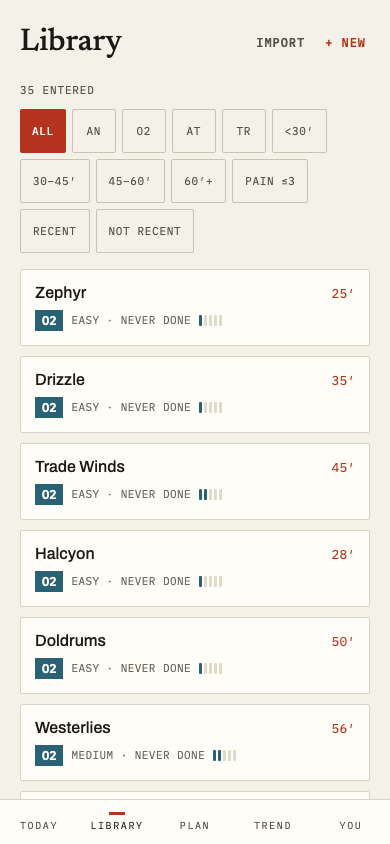
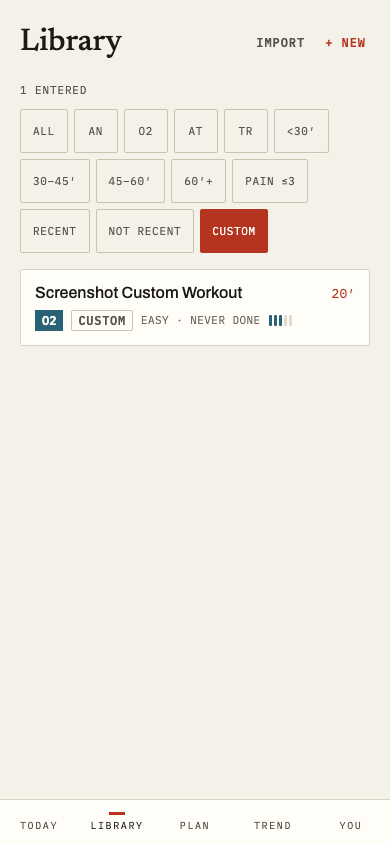
feat: silence the iOS selection callout on controls; record the phase
A device report found that long-pressing a button, chip, radio option,
workout row, or anchor-styled control on iOS popped the native
text-selection callout (Copy/Look Up/Translate) instead of activating it —
WKWebView treats rendered text as selectable unless told otherwise. One
grouped user-select/-webkit-touch-callout rule in index.css covers every
such control while leaving inputs, textareas, and plain inline hyperlinks
selectable; the stepper's typable value cell shares a class name with its
non-editable span sibling, so the selector is scoped to span.stepper-value
specifically to avoid catching the typed variant. Chromium can only assert
the computed style — the callout suppression itself is James's to verify
on-device, post-merge.

Also records Phase 5H (badge/filter + this fix) in ROADMAP.md and
DEVIATIONS.md, and updates the library screenshot to show a real custom
workout wearing the CUSTOM badge.

Claude-Session: https://claude.ai/code/session_01UEXqdgDid4Qjd8D5uoRZ3H

diff --git a/app/e2e/design.spec.ts b/app/e2e/design.spec.ts
@@ -166,6 +166,26 @@ test.describe("library screen", () => {
       .evaluate((el) => getComputedStyle(el).backgroundColor);
     expect(allChipBg).toBe("rgb(181, 52, 31)"); // --accent
   });
+
+  // iOS device report, 2026-08-01: long-pressing a filter chip or a
+  // workout row popped the text-selection callout (Copy/Look Up/
+  // Translate) — WKWebView treats button/link text as selectable unless
+  // told otherwise. Chromium can only assert the computed style; the
+  // callout behaviour itself is verified on device (see index.css).
+  test("the filter chip and workout row resist the iOS text-selection callout", async ({
+    page,
+  }) => {
+    const chipSelect = await page
+      .getByRole("button", { name: "ALL", exact: true })
+      .evaluate((el) => getComputedStyle(el).userSelect);
+    expect(chipSelect).toBe("none");
+
+    const rowSelect = await page
+      .locator(".workout-row")
+      .first()
+      .evaluate((el) => getComputedStyle(el).userSelect);
+    expect(rowSelect).toBe("none");
+  });
 });
 
 test.describe("workout detail screen", () => {
@@ -371,6 +391,25 @@ test.describe("builder screen", () => {
     expect(afterDifficulty?.y).toBe(beforeDifficulty?.y);
   });
 
+  // Same iOS device report as the library screen's callout test: a typed
+  // field must stay selectable (copy/paste a workout title) even though
+  // the surrounding chips and steppers must not pop the callout.
+  test("the Title field stays text-selectable while a stepper button resists the iOS callout", async ({
+    page,
+  }) => {
+    const titleSelect = await page
+      .getByLabel("Title")
+      .evaluate((el) => getComputedStyle(el).userSelect);
+    expect(titleSelect).not.toBe("none");
+
+    // REPEAT's stepper is present on every fresh builder screen (Builder.tsx's
+    // builder-repeat-card), no extra setup needed.
+    const stepperSelect = await page
+      .getByRole("button", { name: "Repeat up" })
+      .evaluate((el) => getComputedStyle(el).userSelect);
+    expect(stepperSelect).toBe("none");
+  });
+
   // A prior review (5B) only ever swept the builder blank — never after a
   // failed Save exposes its error-state markup (role=alert banners,
   // aria-invalid/aria-describedby on the first bad field, inline field-error
@@ -455,6 +494,26 @@ test.describe("builder screen", () => {
         .locator(".step-editor")
         .evaluate((el) => getComputedStyle(el).borderLeftColor);
       expect(expandedMarker).toBe("rgb(42, 98, 117)"); // --type-o2
+    });
+
+    // Same iOS device report: the collapsed card's EDIT control is a
+    // frequent long-press target (it's the whole card's stated affordance),
+    // while the still-expanded row's typed SPM field must not lose text
+    // selection to the same rule (`.stepper-value` only ever targets the
+    // non-editable `<span>` variant — `.stepper-value-input` stays out of
+    // the selector list on purpose).
+    test("the collapsed card's EDIT control resists the callout; the expanded row's SPM field stays selectable", async ({
+      page,
+    }) => {
+      const editSelect = await page
+        .locator(".step-card-edit")
+        .evaluate((el) => getComputedStyle(el).userSelect);
+      expect(editSelect).toBe("none");
+
+      const spmSelect = await page
+        .getByLabel("Row 2 stroke rate value")
+        .evaluate((el) => getComputedStyle(el).userSelect);
+      expect(spmSelect).not.toBe("none");
     });
   });
 

diff --git a/app/e2e/screenshots.spec.ts b/app/e2e/screenshots.spec.ts
@@ -102,14 +102,38 @@ test("library", async ({ page }) => {
     name: "Screenshot Tester",
   });
   await setBaselines(page);
+
+  // Phase 5H: personal (non-global) workouts now wear a CUSTOM badge on
+  // the library row's second line. Every seeded starter workout is
+  // global, so without authoring one of its own first, this capture would
+  // never show the badge at all — same reasoning as "workout-detail"'s
+  // own builder-authored personal workout below. Simplest valid form:
+  // title + pain + one row's duration.
+  const customTitle = "Screenshot Custom Workout";
+  await page.goto("/library/new");
+  await page.getByLabel("Title").fill(customTitle);
+  await page.getByRole("button", { name: "Pain 3" }).click();
+  await page.getByLabel("Row 1 duration", { exact: true }).fill("2000");
+  await page.getByRole("button", { name: "Save to library" }).click();
+  await expect(page).toHaveURL(/\/library\/[^/]+$/);
+
   await page.goto("/library");
   // Library shows "LOADING…" until the workouts/baselines fetches resolve;
   // page.goto only waits for the navigation's load event, not that — wait
   // for a real row so the screenshot isn't just the loading state.
   await page.locator(".workout-row").first().waitFor();
+  // The library sorts the 36 global starter workouts ahead of a single
+  // freshly-authored personal one, so it lands well past the first
+  // viewport-height screen — the CUSTOM filter chip (Phase 5H) isolates it
+  // so the committed capture actually shows the badge, not just a taller
+  // "N ENTERED" count.
+  await page.getByRole("button", { name: "CUSTOM", exact: true }).click();
+  await expect(page.locator(".workout-row-custom").first()).toBeVisible();
   await page.screenshot({
     path: path.join(SCREENSHOTS_DIR, "library.png"),
   });
+
+  await cleanupByTitle(page, customTitle);
 });
 
 /** Test-only cleanup: finds the signed-in user's own workout with the given

diff --git a/app/src/index.css b/app/src/index.css
@@ -17,6 +17,42 @@
   border: 0;
 }
 
+/* iOS: long-pressing a control must not pop the text-selection callout
+   (Copy/Look Up/Translate) — WKWebView otherwise treats button/link text
+   as selectable (device report, 2026-08-01). Inputs/textareas are
+   deliberately NOT covered: typed text must stay selectable — this is why
+   `.stepper-value` is qualified as `span.stepper-value` below rather than
+   left bare: Stepper.tsx's typable value cell carries BOTH
+   "stepper-value" and "stepper-value-input"/ClockInput's "clock-input" on
+   the same <input>, so an unqualified `.stepper-value` would have caught
+   the typed variant too. Chromium can only assert the computed style; the
+   callout behaviour itself is verified on device by James, post-merge.
+   `.workout-row`/`.back-link`/`.library-import`/`.library-new`/`.tab` are
+   `<Link>`/`<NavLink>` anchors, not <button>s, so the bare `button`
+   selector below doesn't reach them; `.button-primary`/`.button-outline`
+   are shared between real <button>s (already covered) and the anchor-
+   styled sign-in/Edit links (auth.tsx, WorkoutDetail.tsx), which aren't.
+   Left deliberately selectable: plain inline text hyperlinks (e.g.
+   StepEditor.tsx/StepRow.tsx's "Set baselines") — those read as ordinary
+   body-copy links, not chrome controls, and a copy/look-up callout on
+   link text is normal iOS behaviour there. */
+button,
+[role="radio"],
+.chip,
+.workout-row,
+span.stepper-value,
+.pace-ref-display,
+.back-link,
+.library-import,
+.library-new,
+.button-primary,
+.button-outline,
+.tab {
+  user-select: none;
+  -webkit-user-select: none;
+  -webkit-touch-callout: none;
+}
+
 body {
   background: var(--page);
   color: var(--ink);

diff --git a/docs/design/DEVIATIONS.md b/docs/design/DEVIATIONS.md
@@ -24,6 +24,8 @@ here. These are intentional product decisions (spec:
 | §11's `+ PASTE TO BULK IMPORT` toggle on the New-workout screen | Its own screen at `/library/import`, reached from a control in the Library header | James reported that mixing bulk paste into the single-entry form was confusing |
 | Handoff's × on a step row deletes it immediately, no confirmation | `StepCard.tsx`'s collapsed × swaps the row's action group for an inline `DELETE?` / `YES` / `NO` confirm (`confirmingDelete` state) instead of deleting on the first tap | The × sits 44px away from the duplicate (⧉) cell in one joined action group, tapped mid-authoring on a phone — a mis-tap there must not silently destroy an already-configured step. `NO` restores the normal action group with nothing lost; only `YES` calls `onDelete` |
 | N/A — the handoff has no notion of a "convenience" tap area smaller than a real control | `StepCard.tsx`'s collapsed card exposes two extra clickable areas that duplicate the 48×44 `EDIT` cell's action (`onExpand`) at less than 44×44: `.step-card-line1` (326×18, the index/summary/split line) and `.step-card-sub` (180×14, the sub-summary line) | Design doc §4a's own geometry (an **~86px** collapsed card holding an 18px summary line, a 14px sub-summary line, and a 48×44 `EDIT` cell side by side) makes a compliant-height summary line impossible without growing the card past spec. WCAG **2.5.8 Target Size (Minimum, AA)** — not 2.5.5 Enhanced (AAA), which does not apply here — requires 24×24 *or* one of several exceptions; the **Equivalent Control** exception is satisfied because the fully compliant 48×44 `EDIT` cell performs the identical action in the same card, so these two lines are a redundant path to that target, not the only one. CLAUDE.md's own rule ("every tappable ≥44×44") is flatter than WCAG and carries no such exception, so these two areas are a genuine, acknowledged violation of the *project's* rule — accepted as unavoidable given §4a's fixed card geometry, not fixed here |
+| N/A — the handoff has one flat library, no notion of a rower's own workouts vs. the shared starter set | A personal (non-global) workout's library row wears a `CUSTOM` badge on its second line (`WorkoutRow.tsx`'s `.workout-row-custom`, plus a `.visually-hidden` ", custom workout" suffix on the row's accessible name) and a `CUSTOM` filter chip (`FilterChips.tsx`) that ANDs with every other filter exactly like `PAIN ≤3` | Phase 5H: every one of the 35 seeded starter workouts is global and shared, but a rower's own authored/bulk-imported workouts sat in the same flat list with no visual distinction. `ALL` clears the filter same as any other; filtering to `CUSTOM` with no personal workouts renders a builder-link empty state (`Library.tsx`) rather than a bare "no matches" message |
+| N/A — the handoff has no notion of iOS's native text-selection callout (Copy/Look Up/Translate/Share) on a button's or chip's rendered text | `button`, `[role="radio"]`, `.chip`, `.workout-row`, `span.stepper-value`, `.pace-ref-display`, and the anchor-styled "buttons" (`.back-link`, `.library-import`, `.library-new`, `.button-primary`, `.button-outline`, `.tab`) get `user-select: none; -webkit-user-select: none; -webkit-touch-callout: none;` (`index.css`'s reset block, just below `.visually-hidden`) | Phase 5H, a device report: long-pressing a control in WKWebView (the iOS app's real runtime) popped the OS text-selection callout instead of activating the control — WebKit treats any rendered text node as selectable unless told otherwise. Inputs/textareas stay selectable throughout, including the `Stepper`/`ClockInput` typed value cells (`.stepper-value-input`, `.clock-input`), which share the `.stepper-value` class name with the non-editable `<span>` variant this rule targets — the selector is scoped to `span.stepper-value` specifically so it does not reach the typed variants. Left deliberately selectable: plain inline body-copy hyperlinks (e.g. `StepEditor.tsx`/`StepRow.tsx`'s "Set baselines") — those read as ordinary links, not chrome controls. Chromium's e2e suite can only assert the computed `user-select` value; the callout suppression itself is verified on-device by James, post-merge |
 
 Superseded by the builder redesign (`docs/design/builder-redesign/`, Phase
 5E): the permanently-expanded row list (`StepRowEditor.tsx`, deleted this

diff --git a/ROADMAP.md b/ROADMAP.md
@@ -321,6 +321,50 @@ library) is still **Phase 5H**.
 **Exit:** MET — `0:30 max @ 32` authors, saves, and reopens showing `ALL
 OUT` with no nudge controls, end to end.
 
+## Phase 5H — Library custom badge/filter; the iOS callout fix
+
+**Status:** Done (2026-08-01, PR #TBD)
+**Goal:** A rower can tell their own authored workouts apart from the
+starter library at a glance, and isolate them with a filter — plus close
+out a device report that long-pressing a control on iOS popped the OS
+text-selection callout instead of activating it.
+
+- [x] A personal (non-global) workout's library row wears a `CUSTOM` badge
+      on its second line (`WorkoutRow.tsx`); a `CUSTOM` filter chip
+      (`FilterChips.tsx`) ANDs with every other filter exactly like `PAIN
+      ≤3` — `ALL` clears it, and filtering to `CUSTOM` with no personal
+      workouts renders a builder-link empty state instead of a bare "no
+      matches" message
+- [x] iOS device report (2026-08-01): long-pressing a button, chip,
+      radiogroup option, workout row, or anchor-styled "button" popped
+      Copy/Look Up/Translate instead of activating the control (WKWebView
+      treats rendered text as selectable by default). One grouped
+      `user-select: none` / `-webkit-touch-callout: none` rule in
+      `index.css`'s reset block now covers every such control — see
+      `docs/design/DEVIATIONS.md` for the exact selector list and what was
+      deliberately left out
+- [x] Typed fields stay selectable throughout: `input`/`textarea`, and
+      specifically the `Stepper`/`ClockInput` value cells
+      (`.stepper-value-input`, `.clock-input`), which share the
+      `.stepper-value` class name with the non-editable span variant the
+      callout fix does cover — the CSS selector is scoped to
+      `span.stepper-value` for exactly this reason. Structural e2e coverage
+      (`e2e/design.spec.ts`) asserts both directions: a chip/row/stepper-
+      button/EDIT control computes `user-select: none`, and the Title field
+      plus a typed SPM value computes something other than `none`
+- [x] The library screenshot (`docs/screenshots/library.png`) shows a real
+      custom workout wearing the badge, filtered via the `CUSTOM` chip
+
+**Not verified here:** the callout's actual on-screen behaviour (Chromium
+has no text-selection callout to reproduce or clear) — that's James's to
+confirm on-device, post-merge, the same way every other WKWebView-only
+behaviour in this app has been.
+
+**Exit:** MET — the library can be filtered to exactly the rower's own
+workouts, every row reads which ones those are without opening them, and
+the callout-suppression rule ships with structural (computed-style) e2e
+coverage plus the caveat above about what that coverage can't reach.
+
 ## Phase 6 — Session flow
 
 **Status:** Not started
